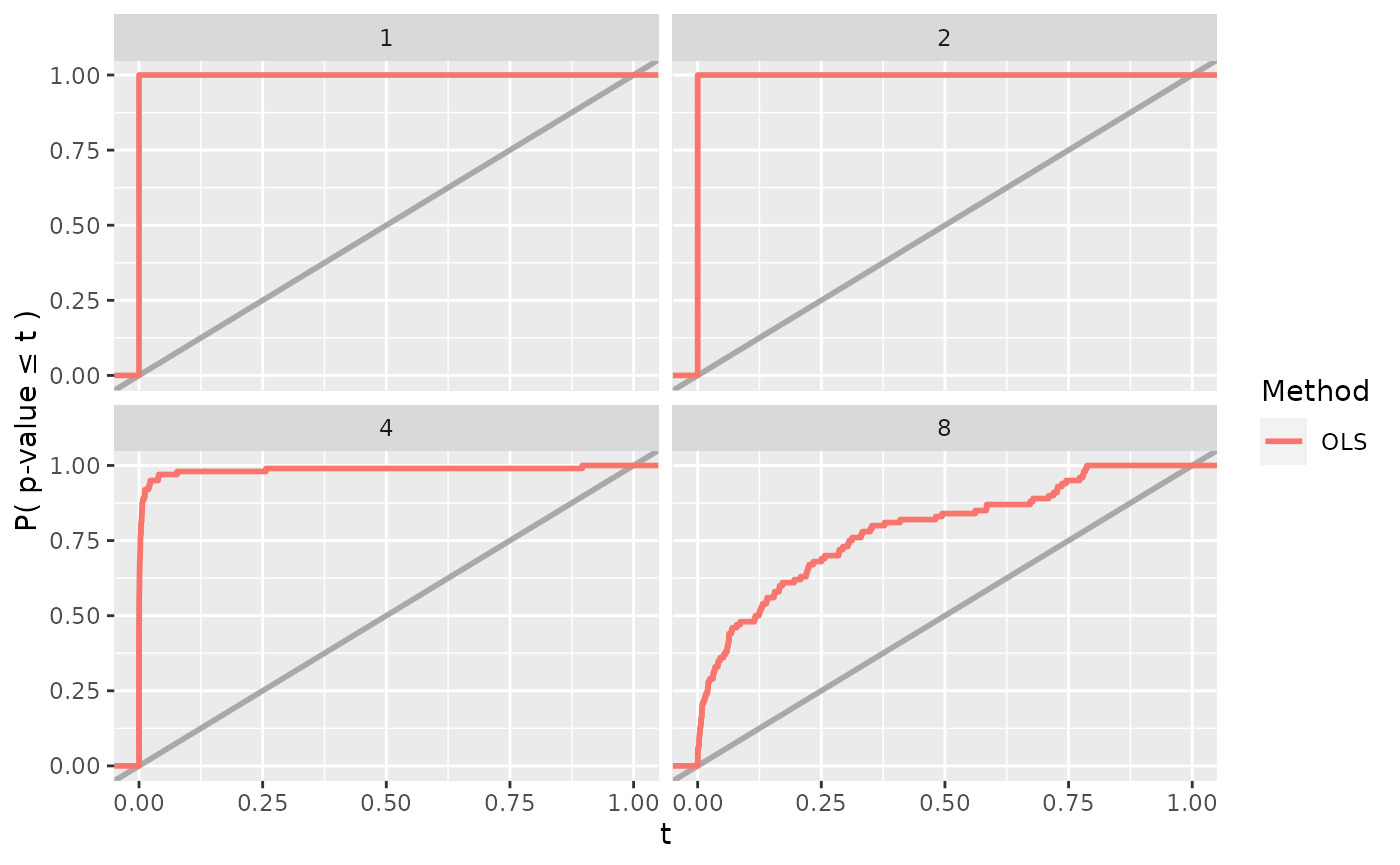
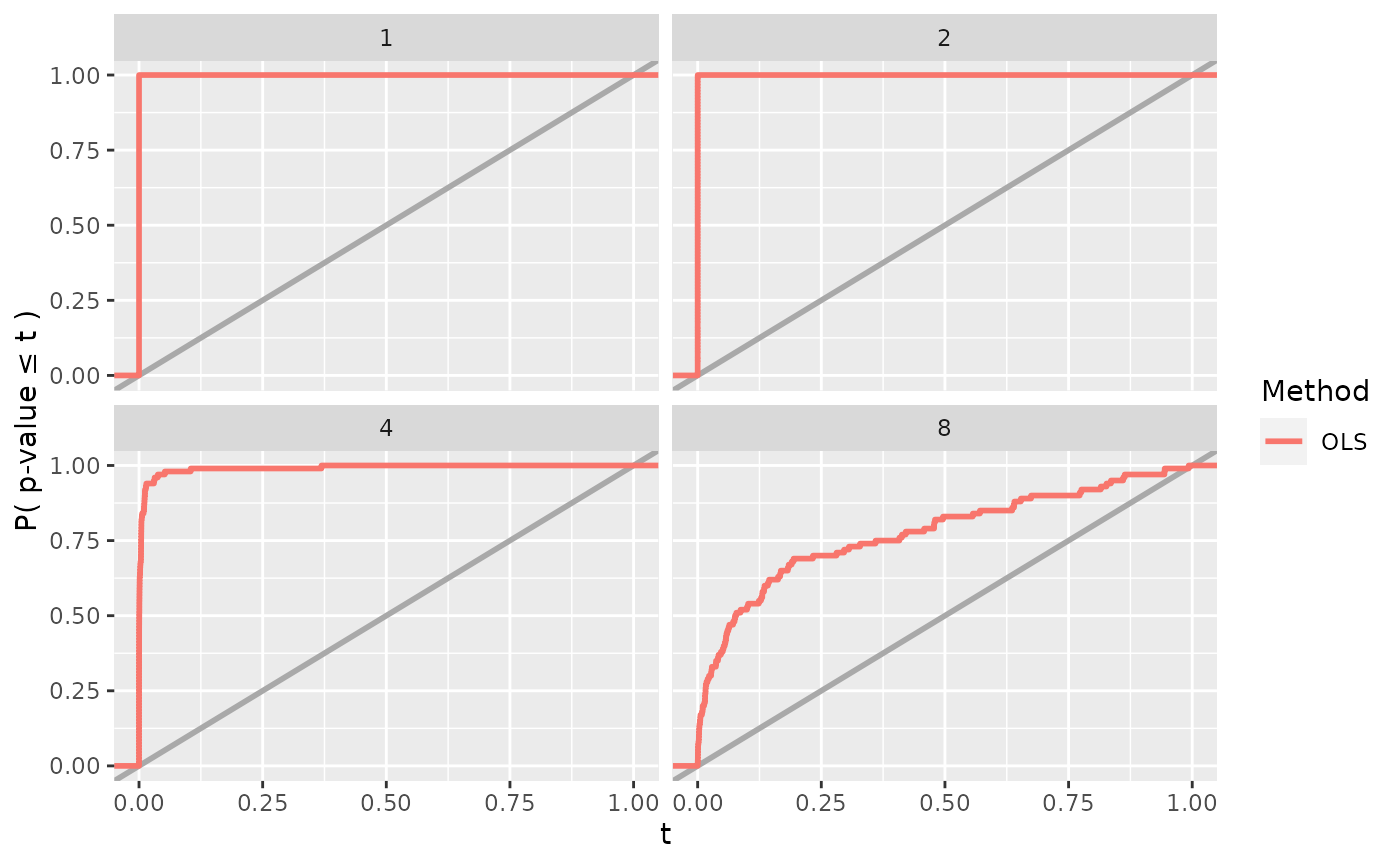
Built site for simChef: 0.0.0.9000@6690653

Changed region(s): [[0.4914, 0.5306, 0.86, 0.8116], [0.215, 0.5306, 0.43, 0.5618], [0.0921, 0.5306, 0.1843, 0.5618]]

diff --git a/articles/simChef.html b/articles/simChef.html
@@ -269,20 +269,20 @@
 <div class="sourceCode" id="cb14"><pre class="downlit sourceCode r">
 <code class="sourceCode R"><span class="va">results</span> <span class="op">&lt;-</span> <span class="va">experiment</span><span class="op">$</span><span class="fu">run</span><span class="op">(</span>n_reps <span class="op">=</span> <span class="fl">100</span>, save <span class="op">=</span> <span class="cn">TRUE</span><span class="op">)</span>
 <span class="co">#&gt; Fitting Linear Regression Experiment...</span>
-<span class="co">#&gt; Fitting completed | time taken: 0.019568 minutes</span>
+<span class="co">#&gt; Fitting completed | time taken: 0.021844 minutes</span>
 <span class="co">#&gt; Saving fit results...</span>
-<span class="co">#&gt; Fit results saved | time taken: 0.012182 seconds</span>
+<span class="co">#&gt; Fit results saved | time taken: 0.010373 seconds</span>
 <span class="co">#&gt; ==============================</span>
 <span class="co">#&gt; Evaluating Linear Regression Experiment...</span>
 <span class="co">#&gt; `summarise()` has grouped output by 'dgp_name'. You can override using the `.groups` argument.</span>
-<span class="co">#&gt; Evaluation completed | time taken: 0.000194 minutes</span>
+<span class="co">#&gt; Evaluation completed | time taken: 0.000198 minutes</span>
 <span class="co">#&gt; Saving eval results...</span>
-<span class="co">#&gt; Eval results saved | time taken: 0.012433 seconds</span>
+<span class="co">#&gt; Eval results saved | time taken: 0.010751 seconds</span>
 <span class="co">#&gt; ==============================</span>
 <span class="co">#&gt; Visualizing Linear Regression Experiment...</span>
-<span class="co">#&gt; Visualization completed | time taken: 0.001612 minutes</span>
+<span class="co">#&gt; Visualization completed | time taken: 0.001584 minutes</span>
 <span class="co">#&gt; Saving visualize results...</span>
-<span class="co">#&gt; Visualize results saved | time taken: 0.050254 seconds</span>
+<span class="co">#&gt; Visualize results saved | time taken: 0.044204 seconds</span>
 <span class="co">#&gt; ==============================</span></code></pre></div>
 <p>or alternatively,</p>
 <div class="sourceCode" id="cb15"><pre class="downlit sourceCode r">
@@ -310,23 +310,23 @@
 <span class="co">#&gt; # A tibble: 100 × 5</span>
 <span class="co">#&gt;    rep   dgp_name            method_name `X1 p-value` `X2 p-value`</span>
 <span class="co">#&gt;    &lt;chr&gt; &lt;chr&gt;               &lt;chr&gt;              &lt;dbl&gt;        &lt;dbl&gt;</span>
-<span class="co">#&gt;  1 1     Linear Gaussian DGP OLS             4.38e-32      0.00633</span>
-<span class="co">#&gt;  2 2     Linear Gaussian DGP OLS             2.52e-24      0.199  </span>
-<span class="co">#&gt;  3 3     Linear Gaussian DGP OLS             1.65e-25      0.348  </span>
-<span class="co">#&gt;  4 4     Linear Gaussian DGP OLS             3.26e-35      0.937  </span>
-<span class="co">#&gt;  5 5     Linear Gaussian DGP OLS             8.40e-40      0.444  </span>
-<span class="co">#&gt;  6 6     Linear Gaussian DGP OLS             1.29e-34      0.243  </span>
-<span class="co">#&gt;  7 7     Linear Gaussian DGP OLS             9.72e-43      0.135  </span>
-<span class="co">#&gt;  8 8     Linear Gaussian DGP OLS             3.50e-27      0.950  </span>
-<span class="co">#&gt;  9 9     Linear Gaussian DGP OLS             3.51e-29      0.852  </span>
-<span class="co">#&gt; 10 10    Linear Gaussian DGP OLS             5.40e-32      0.381  </span>
+<span class="co">#&gt;  1 1     Linear Gaussian DGP OLS             3.74e-35       0.421 </span>
+<span class="co">#&gt;  2 2     Linear Gaussian DGP OLS             1.29e-28       0.427 </span>
+<span class="co">#&gt;  3 3     Linear Gaussian DGP OLS             2.97e-29       0.0648</span>
+<span class="co">#&gt;  4 4     Linear Gaussian DGP OLS             3.94e-36       0.358 </span>
+<span class="co">#&gt;  5 5     Linear Gaussian DGP OLS             1.30e-35       0.294 </span>
+<span class="co">#&gt;  6 6     Linear Gaussian DGP OLS             4.70e-36       0.164 </span>
+<span class="co">#&gt;  7 7     Linear Gaussian DGP OLS             1.41e-31       0.285 </span>
+<span class="co">#&gt;  8 8     Linear Gaussian DGP OLS             2.20e-25       0.257 </span>
+<span class="co">#&gt;  9 9     Linear Gaussian DGP OLS             2.86e-35       0.207 </span>
+<span class="co">#&gt; 10 10    Linear Gaussian DGP OLS             2.73e-31       0.990 </span>
 <span class="co">#&gt; # … with 90 more rows</span>
 <span class="va">results</span><span class="op">$</span><span class="va">eval_results</span>
 <span class="co">#&gt; $`Rejection Prob. (alpha = 0.1)`</span>
 <span class="co">#&gt; # A tibble: 1 × 4</span>
 <span class="co">#&gt;   dgp_name            method_name `X1 Reject Prob.` `X2 Reject Prob.`</span>
 <span class="co">#&gt;   &lt;chr&gt;               &lt;chr&gt;                   &lt;dbl&gt;             &lt;dbl&gt;</span>
-<span class="co">#&gt; 1 Linear Gaussian DGP OLS                         1              0.15</span>
+<span class="co">#&gt; 1 Linear Gaussian DGP OLS                         1              0.08</span>
 <span class="va">results</span><span class="op">$</span><span class="va">visualize_results</span>
 <span class="co">#&gt; $Power</span></code></pre></div>
 <p><img src="simChef_files/figure-html/unnamed-chunk-17-1.png" width="700"></p>
@@ -374,26 +374,26 @@
 <div class="sourceCode" id="cb21"><pre class="downlit sourceCode r">
 <code class="sourceCode R"><span class="va">vary_results</span> <span class="op">&lt;-</span> <span class="va">experiment</span><span class="op">$</span><span class="fu">run</span><span class="op">(</span>n_reps <span class="op">=</span> <span class="fl">100</span>, save <span class="op">=</span> <span class="cn">TRUE</span><span class="op">)</span>
 <span class="co">#&gt; Fitting Linear Regression Experiment...</span>
-<span class="co">#&gt; Fitting completed | time taken: 0.046600 minutes</span>
+<span class="co">#&gt; Fitting completed | time taken: 0.055475 minutes</span>
 <span class="co">#&gt; Saving fit results...</span>
-<span class="co">#&gt; Fit results saved | time taken: 0.020403 seconds</span>
+<span class="co">#&gt; Fit results saved | time taken: 0.017750 seconds</span>
 <span class="co">#&gt; ==============================</span>
 <span class="co">#&gt; Evaluating Linear Regression Experiment...</span>
-<span class="co">#&gt; Evaluation completed | time taken: 0.000248 minutes</span>
+<span class="co">#&gt; Evaluation completed | time taken: 0.000267 minutes</span>
 <span class="co">#&gt; Saving eval results...</span>
-<span class="co">#&gt; Eval results saved | time taken: 0.019519 seconds</span>
+<span class="co">#&gt; Eval results saved | time taken: 0.019681 seconds</span>
 <span class="co">#&gt; ==============================</span>
 <span class="co">#&gt; Visualizing Linear Regression Experiment...</span>
-<span class="co">#&gt; Visualization completed | time taken: 0.000204 minutes</span>
+<span class="co">#&gt; Visualization completed | time taken: 0.000238 minutes</span>
 <span class="co">#&gt; Saving visualize results...</span>
-<span class="co">#&gt; Visualize results saved | time taken: 0.059151 seconds</span>
+<span class="co">#&gt; Visualize results saved | time taken: 0.057145 seconds</span>
 <span class="co">#&gt; ==============================</span>
 <span class="va">vary_results</span><span class="op">$</span><span class="va">eval_results</span>
 <span class="co">#&gt; $`Rejection Prob. (alpha = 0.1)`</span>
 <span class="co">#&gt; # A tibble: 1 × 4</span>
 <span class="co">#&gt;   dgp_name            method_name `X1 Reject Prob.` `X2 Reject Prob.`</span>
 <span class="co">#&gt;   &lt;chr&gt;               &lt;chr&gt;                   &lt;dbl&gt;             &lt;dbl&gt;</span>
-<span class="co">#&gt; 1 Linear Gaussian DGP OLS                     0.868             0.102</span>
+<span class="co">#&gt; 1 Linear Gaussian DGP OLS                     0.878             0.115</span>
 <span class="va">vary_results</span><span class="op">$</span><span class="va">visualize_results</span>
 <span class="co">#&gt; $Power</span></code></pre></div>
 <p><img src="simChef_files/figure-html/unnamed-chunk-22-1.png" width="700"></p>
@@ -446,29 +446,29 @@
   <span class="fu"><a href="../reference/update_funs.html">update_visualizer</a></span><span class="op">(</span><span class="va">power_plot</span>, name <span class="op">=</span> <span class="st">"Power"</span><span class="op">)</span> <span class="op">%&gt;%</span>
   <span class="fu"><a href="../reference/run_experiment.html">run_experiment</a></span><span class="op">(</span>n_reps <span class="op">=</span> <span class="fl">100</span>, save <span class="op">=</span> <span class="cn">TRUE</span><span class="op">)</span>
 <span class="co">#&gt; Fitting Linear Regression Experiment...</span>
-<span class="co">#&gt; Fitting completed | time taken: 0.046818 minutes</span>
+<span class="co">#&gt; Fitting completed | time taken: 0.052922 minutes</span>
 <span class="co">#&gt; Saving fit results...</span>
-<span class="co">#&gt; Fit results saved | time taken: 0.020859 seconds</span>
+<span class="co">#&gt; Fit results saved | time taken: 0.018686 seconds</span>
 <span class="co">#&gt; ==============================</span>
 <span class="co">#&gt; Evaluating Linear Regression Experiment...</span>
-<span class="co">#&gt; Evaluation completed | time taken: 0.000166 minutes</span>
+<span class="co">#&gt; Evaluation completed | time taken: 0.000174 minutes</span>
 <span class="co">#&gt; Saving eval results...</span>
-<span class="co">#&gt; Eval results saved | time taken: 0.020088 seconds</span>
+<span class="co">#&gt; Eval results saved | time taken: 0.017483 seconds</span>
 <span class="co">#&gt; ==============================</span>
 <span class="co">#&gt; Visualizing Linear Regression Experiment...</span>
-<span class="co">#&gt; Visualization completed | time taken: 0.000360 minutes</span>
+<span class="co">#&gt; Visualization completed | time taken: 0.000384 minutes</span>
 <span class="co">#&gt; Saving visualize results...</span>
-<span class="co">#&gt; Visualize results saved | time taken: 0.069203 seconds</span>
+<span class="co">#&gt; Visualize results saved | time taken: 0.063806 seconds</span>
 <span class="co">#&gt; ==============================</span>
 <span class="va">vary_results</span><span class="op">$</span><span class="va">eval_results</span>
 <span class="co">#&gt; $`Rejection Prob. (alpha = 0.1)`</span>
 <span class="co">#&gt; # A tibble: 4 × 5</span>
 <span class="co">#&gt;   dgp_name            method_name sigma `X1 Reject Prob.` `X2 Reject Prob.`</span>
 <span class="co">#&gt;   &lt;chr&gt;               &lt;chr&gt;       &lt;dbl&gt;             &lt;dbl&gt;             &lt;dbl&gt;</span>
-<span class="co">#&gt; 1 Linear Gaussian DGP OLS             1              1                 0.07</span>
-<span class="co">#&gt; 2 Linear Gaussian DGP OLS             2              1                 0.08</span>
-<span class="co">#&gt; 3 Linear Gaussian DGP OLS             4              0.98              0.11</span>
-<span class="co">#&gt; 4 Linear Gaussian DGP OLS             8              0.48              0.12</span>
+<span class="co">#&gt; 1 Linear Gaussian DGP OLS             1              1                 0.12</span>
+<span class="co">#&gt; 2 Linear Gaussian DGP OLS             2              1                 0.11</span>
+<span class="co">#&gt; 3 Linear Gaussian DGP OLS             4              0.98              0.09</span>
+<span class="co">#&gt; 4 Linear Gaussian DGP OLS             8              0.53              0.12</span>
 <span class="va">vary_results</span><span class="op">$</span><span class="va">visualize_results</span>
 <span class="co">#&gt; $Power</span></code></pre></div>
 <p><img src="simChef_files/figure-html/unnamed-chunk-25-1.png" width="700"></p>
@@ -519,19 +519,19 @@
                               <span class="fu"><a href="https://rdrr.io/r/base/c.html">c</a></span><span class="op">(</span><span class="fl">1</span>, <span class="fl">2</span><span class="op">)</span><span class="op">)</span><span class="op">)</span> <span class="op">%&gt;%</span>
   <span class="fu"><a href="../reference/run_experiment.html">run_experiment</a></span><span class="op">(</span>n_reps <span class="op">=</span> <span class="fl">100</span>, save <span class="op">=</span> <span class="cn">TRUE</span><span class="op">)</span>
 <span class="co">#&gt; Fitting Linear Regression Experiment...</span>
-<span class="co">#&gt; Fitting completed | time taken: 0.106979 minutes</span>
+<span class="co">#&gt; Fitting completed | time taken: 0.120815 minutes</span>
 <span class="co">#&gt; Saving fit results...</span>
-<span class="co">#&gt; Fit results saved | time taken: 0.025412 seconds</span>
+<span class="co">#&gt; Fit results saved | time taken: 0.021850 seconds</span>
 <span class="co">#&gt; ==============================</span>
 <span class="co">#&gt; Evaluating Linear Regression Experiment...</span>
-<span class="co">#&gt; Evaluation completed | time taken: 0.000246 minutes</span>
+<span class="co">#&gt; Evaluation completed | time taken: 0.000265 minutes</span>
 <span class="co">#&gt; Saving eval results...</span>
-<span class="co">#&gt; Eval results saved | time taken: 0.024917 seconds</span>
+<span class="co">#&gt; Eval results saved | time taken: 0.021090 seconds</span>
 <span class="co">#&gt; ==============================</span>
 <span class="co">#&gt; Visualizing Linear Regression Experiment...</span>
-<span class="co">#&gt; Visualization completed | time taken: 0.003389 minutes</span>
+<span class="co">#&gt; Visualization completed | time taken: 0.003718 minutes</span>
 <span class="co">#&gt; Saving visualize results...</span>
-<span class="co">#&gt; Visualize results saved | time taken: 0.109340 seconds</span>
+<span class="co">#&gt; Visualize results saved | time taken: 0.098362 seconds</span>
 <span class="co">#&gt; ==============================</span>
 <span class="co"># run experiment across values of rho (correlation)</span>
 <span class="va">vary_cor_results</span> <span class="op">&lt;-</span> <span class="va">experiment</span> <span class="op">%&gt;%</span>
@@ -540,19 +540,19 @@
                   rho <span class="op">=</span> <span class="fu"><a href="https://rdrr.io/r/base/c.html">c</a></span><span class="op">(</span><span class="fl">0</span>, <span class="fl">0.2</span>, <span class="fl">0.5</span>, <span class="fl">0.9</span><span class="op">)</span><span class="op">)</span> <span class="op">%&gt;%</span>
   <span class="fu"><a href="../reference/run_experiment.html">run_experiment</a></span><span class="op">(</span>n_reps <span class="op">=</span> <span class="fl">100</span>, save <span class="op">=</span> <span class="cn">TRUE</span><span class="op">)</span>
 <span class="co">#&gt; Fitting Linear Regression Experiment...</span>
-<span class="co">#&gt; Fitting completed | time taken: 0.046074 minutes</span>
+<span class="co">#&gt; Fitting completed | time taken: 0.055250 minutes</span>
 <span class="co">#&gt; Saving fit results...</span>
-<span class="co">#&gt; Fit results saved | time taken: 0.026774 seconds</span>
+<span class="co">#&gt; Fit results saved | time taken: 0.031664 seconds</span>
 <span class="co">#&gt; ==============================</span>
 <span class="co">#&gt; Evaluating Linear Regression Experiment...</span>
-<span class="co">#&gt; Evaluation completed | time taken: 0.000166 minutes</span>
+<span class="co">#&gt; Evaluation completed | time taken: 0.000170 minutes</span>
 <span class="co">#&gt; Saving eval results...</span>
-<span class="co">#&gt; Eval results saved | time taken: 0.026199 seconds</span>
+<span class="co">#&gt; Eval results saved | time taken: 0.029275 seconds</span>
 <span class="co">#&gt; ==============================</span>
 <span class="co">#&gt; Visualizing Linear Regression Experiment...</span>
-<span class="co">#&gt; Visualization completed | time taken: 0.001630 minutes</span>
+<span class="co">#&gt; Visualization completed | time taken: 0.001987 minutes</span>
 <span class="co">#&gt; Saving visualize results...</span>
-<span class="co">#&gt; Visualize results saved | time taken: 0.113074 seconds</span>
+<span class="co">#&gt; Visualize results saved | time taken: 0.120718 seconds</span>
 <span class="co">#&gt; ==============================</span></code></pre></div>
 </div>
 <div id="experiment-as-an-r6-class" class="section level2">
@@ -705,15 +705,15 @@
 <div class="sourceCode" id="cb36"><pre class="downlit sourceCode r">
 <code class="sourceCode R"><span class="va">fit_results</span> <span class="op">&lt;-</span> <span class="va">experiment</span><span class="op">$</span><span class="fu">fit</span><span class="op">(</span>n_reps <span class="op">=</span> <span class="fl">100</span><span class="op">)</span>
 <span class="co">#&gt; Fitting Linear Regression Experiment...</span>
-<span class="co">#&gt; Fitting completed | time taken: 0.045214 minutes</span>
+<span class="co">#&gt; Fitting completed | time taken: 0.054659 minutes</span>
 <span class="co">#&gt; ==============================</span>
 <span class="va">eval_results</span> <span class="op">&lt;-</span> <span class="va">experiment</span><span class="op">$</span><span class="fu">evaluate</span><span class="op">(</span><span class="va">fit_results</span><span class="op">)</span>
 <span class="co">#&gt; Evaluating Linear Regression Experiment...</span>
-<span class="co">#&gt; Evaluation completed | time taken: 0.000138 minutes</span>
+<span class="co">#&gt; Evaluation completed | time taken: 0.000174 minutes</span>
 <span class="co">#&gt; ==============================</span>
 <span class="va">visualize_results</span> <span class="op">&lt;-</span> <span class="va">experiment</span><span class="op">$</span><span class="fu">visualize</span><span class="op">(</span><span class="va">fit_results</span>, <span class="va">eval_results</span><span class="op">)</span>
 <span class="co">#&gt; Visualizing Linear Regression Experiment...</span>
-<span class="co">#&gt; Visualization completed | time taken: 0.001399 minutes</span>
+<span class="co">#&gt; Visualization completed | time taken: 0.001660 minutes</span>
 <span class="co">#&gt; ==============================</span></code></pre></div>
 <p>or alternatively,</p>
 <div class="sourceCode" id="cb37"><pre class="downlit sourceCode r">
@@ -730,38 +730,38 @@
 <span class="co">#&gt;  $ Linear Gaussian DGP:List of 4</span>
 <span class="co">#&gt;   ..$ :List of 1</span>
 <span class="co">#&gt;   .. ..$ :List of 2</span>
-<span class="co">#&gt;   .. .. ..$ X: num [1:200, 1:2] 1.322 -0.568 0.81 0.229 -1.132 ...</span>
+<span class="co">#&gt;   .. .. ..$ X: num [1:200, 1:2] -1.29094 0.01112 0.04109 1.90982 0.00124 ...</span>
 <span class="co">#&gt;   .. .. .. ..- attr(*, "dimnames")=List of 2</span>
 <span class="co">#&gt;   .. .. .. .. ..$ : NULL</span>
 <span class="co">#&gt;   .. .. .. .. ..$ : NULL</span>
-<span class="co">#&gt;   .. .. ..$ y: num [1:200, 1] -0.177 0.346 1.216 -0.193 -0.243 ...</span>
+<span class="co">#&gt;   .. .. ..$ y: num [1:200, 1] -0.0293 -1.3746 -1.3256 1.3385 0.6375 ...</span>
 <span class="co">#&gt;   .. ..- attr(*, "params")=List of 1</span>
 <span class="co">#&gt;   .. .. ..$ sigma: num 1</span>
 <span class="co">#&gt;   ..$ :List of 1</span>
 <span class="co">#&gt;   .. ..$ :List of 2</span>
-<span class="co">#&gt;   .. .. ..$ X: num [1:200, 1:2] -0.607 0.442 1.796 1.014 -0.975 ...</span>
+<span class="co">#&gt;   .. .. ..$ X: num [1:200, 1:2] -1.879 -1.557 -0.972 1.633 -0.416 ...</span>
 <span class="co">#&gt;   .. .. .. ..- attr(*, "dimnames")=List of 2</span>
 <span class="co">#&gt;   .. .. .. .. ..$ : NULL</span>
 <span class="co">#&gt;   .. .. .. .. ..$ : NULL</span>
-<span class="co">#&gt;   .. .. ..$ y: num [1:200, 1] -2.691 3.941 3.482 3.335 0.155 ...</span>
+<span class="co">#&gt;   .. .. ..$ y: num [1:200, 1] -2.556 -3.268 0.755 -2.406 -3.005 ...</span>
 <span class="co">#&gt;   .. ..- attr(*, "params")=List of 1</span>
 <span class="co">#&gt;   .. .. ..$ sigma: num 2</span>
 <span class="co">#&gt;   ..$ :List of 1</span>
 <span class="co">#&gt;   .. ..$ :List of 2</span>
-<span class="co">#&gt;   .. .. ..$ X: num [1:200, 1:2] 0.0529 -0.7227 0.4354 -1.4255 -3.0549 ...</span>
+<span class="co">#&gt;   .. .. ..$ X: num [1:200, 1:2] 0.305 0.319 -0.561 -0.415 -2.352 ...</span>
 <span class="co">#&gt;   .. .. .. ..- attr(*, "dimnames")=List of 2</span>
 <span class="co">#&gt;   .. .. .. .. ..$ : NULL</span>
 <span class="co">#&gt;   .. .. .. .. ..$ : NULL</span>
-<span class="co">#&gt;   .. .. ..$ y: num [1:200, 1] -3.723 -0.255 1.548 -3.658 -5.202 ...</span>
+<span class="co">#&gt;   .. .. ..$ y: num [1:200, 1] 5.64 -6.244 -0.769 -4.457 -2.477 ...</span>
 <span class="co">#&gt;   .. ..- attr(*, "params")=List of 1</span>
 <span class="co">#&gt;   .. .. ..$ sigma: num 4</span>
 <span class="co">#&gt;   ..$ :List of 1</span>
 <span class="co">#&gt;   .. ..$ :List of 2</span>
-<span class="co">#&gt;   .. .. ..$ X: num [1:200, 1:2] 0.961 0.877 0.344 -1.063 0.365 ...</span>
+<span class="co">#&gt;   .. .. ..$ X: num [1:200, 1:2] 0.386 -0.597 -0.319 0.915 -1.922 ...</span>
 <span class="co">#&gt;   .. .. .. ..- attr(*, "dimnames")=List of 2</span>
 <span class="co">#&gt;   .. .. .. .. ..$ : NULL</span>
 <span class="co">#&gt;   .. .. .. .. ..$ : NULL</span>
-<span class="co">#&gt;   .. .. ..$ y: num [1:200, 1] -18.67 -2.11 -2.19 -21.24 -11.74 ...</span>
+<span class="co">#&gt;   .. .. ..$ y: num [1:200, 1] 14.01 4.88 6.78 -4.77 1.68 ...</span>
 <span class="co">#&gt;   .. ..- attr(*, "params")=List of 1</span>
 <span class="co">#&gt;   .. .. ..$ sigma: num 8</span></code></pre></div>
 <p>or alternatively,</p>

diff --git a/articles/parallel.html b/articles/parallel.html
@@ -235,7 +235,7 @@
   <span class="op">)</span>
 <span class="op">)</span>
 <span class="co">#&gt; Fitting base...</span>
-<span class="co">#&gt; Fitting completed | time taken: 0.873375 minutes</span>
+<span class="co">#&gt; Fitting completed | time taken: 0.770361 minutes</span>
 <span class="co">#&gt; ==============================</span>
 <span class="co">#&gt; # A tibble: 136 × 16</span>
 <span class="co">#&gt;      rep dgp_name   method_name     p   rho sparsity nonzero_coeff alpha term   </span>

diff --git a/reference/make_initialize_arg_list.html b/reference/make_initialize_arg_list.html
@@ -147,7 +147,7 @@ of the method that calls make_initialize_arg_list().</p>
     </tr>
     <tr>
       <th>which</th>
-      <td><p>see argument of the same name in sys.call()</p></td>
+      <td><p>see argument of the same name in <code><a href='https://rdrr.io/r/base/sys.parent.html'>sys.call</a></code></p></td>
     </tr>
     </table>
 
